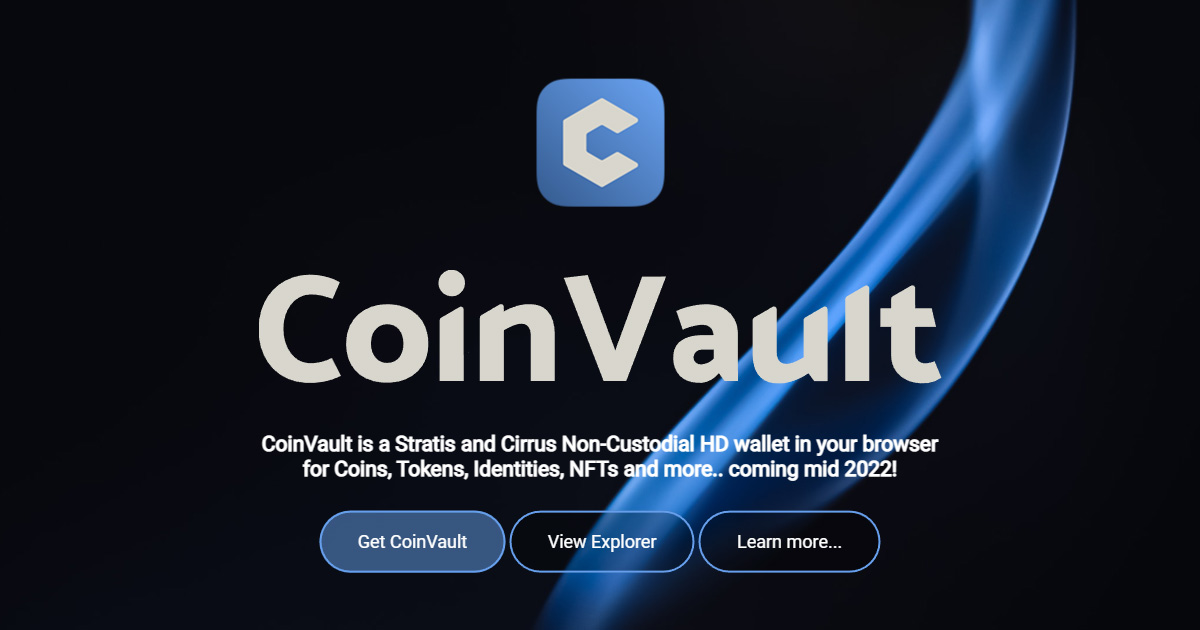
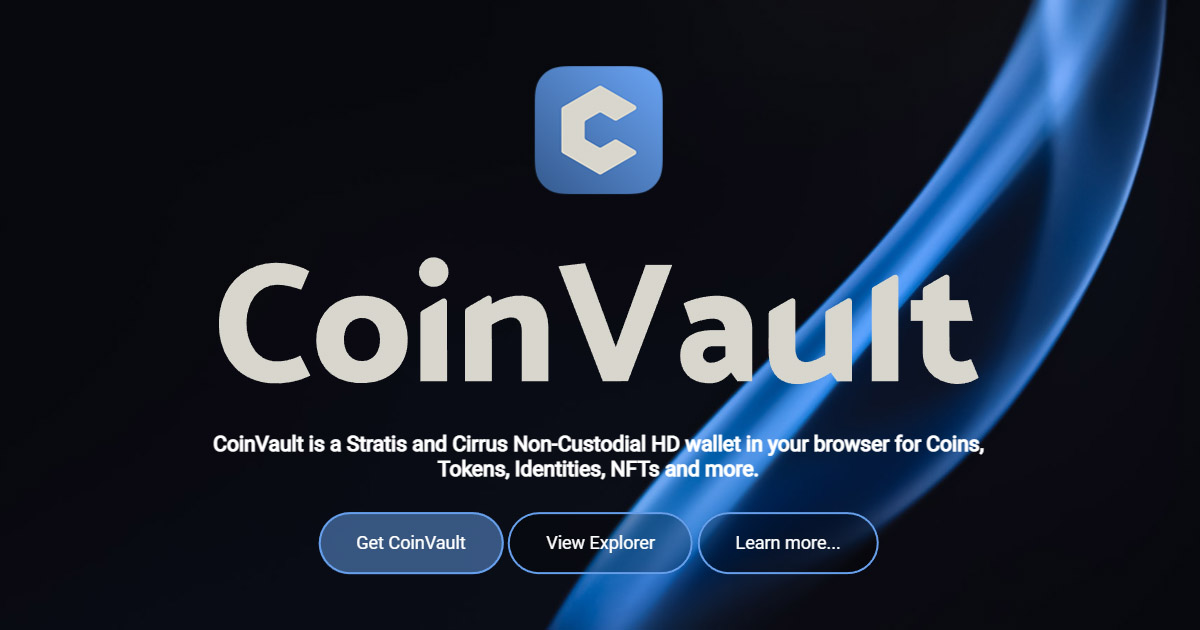
deploy: 38b2974764503ea4815e2efd65a3202297f32357

diff --git a/index.html b/index.html
@@ -46,7 +46,7 @@
             <img src="assets/profile/icon-128x128.png"><br><br>
             <img class="coinvault-logo" src="assets/profile/coinvault-light.svg">
             <h3>CoinVault is a Stratis and Cirrus Non-Custodial HD wallet in your browser for Coins, Tokens, Identities,
-                NFTs and more.. coming mid 2022!
+                NFTs and more.
             </h3>
             <br><br>
             <a class="button button-primary" href="https://chrome.google.com/webstore/detail/coinvault/iofdmgdkbbolebgepilfaacaaoaeigek" target="_blank">Get CoinVault</a>
@@ -73,10 +73,8 @@
                 how they want to manage their assets.
             </p>
             <p>
-                The wallet allow users to store, send, receive, setup coldstaking,
-                create tokens, swap tokens,
-                vote on proposal and generally interact with smart contracts on top of the Stratis mainchain and
-                sidechains.
+                The wallet allow users to store, send, receive, view tokens, view NFTs,
+                and generally interact with smart contracts (future functionality).
             </p>
             <h3>CoinVault benefits</h3>
             <p>
@@ -112,69 +110,16 @@
             <h2>All the features in one place</h2>
             <img class="drawing-right-image" src="assets/screenshot-wallet-management.png">
             <p>
-            <ul>
-                <li>HD wallet, one key all coins</li>
-                <li>Multiple Wallets, Multiple Accounts</li>
-                <li>Send and receive on Cirrus and Stratis</li>
-                <li>Setup and track coldstaking coins</li>
-                <li>All your NFTs in one place</li>
-                <li>Web3 Provider</li>
-                <li>Document and Message Signing</li>
-                <li>Web App Authentication</li>
-                <li>Decentralized identifier (DID) support</li>
-                <li>Hardware Wallet support</li>
-                <li>Swap token with <a href="https://www.opdex.com/" target="_blank">Opdex</a></li>
-            </ul>
-
-            </p>
-
-            <h2>Technical proposal</h2>
-
-            <strong>Web3 Provider</strong>
-            <br><br>
-            <p>
-                CoinVault includes an Web3 Provider built specifically for Stratis, which provides
-                an JavaScript API that will allow third party developers to interact with the CoinVault extension and
-                the indexer.
-            </p>
-            <p>The Web3 Provider can be used interactively with the CoinVault wallet, requesting signing of messages,
-                signing of transactions and more.</p>
-
-            <strong>Smart Contracts</strong>
-            <br><br>
-            <p>
-                Making smart contract on Cirrus accessible without running a fullnode:
-            <ul>
-                <li>Issue and store tokens on Cirrus.</li>
-                <li>Interact with the Opdex protocol to swap token issued on Cirrus.</li>
-                <li>Enable master nodes to vote on SDA proposals.</li>
-                <li>Create and store NFTs. (pending NFT contracts are available)</li>
-                <li>Coldstaking, stake Strax safely with external staking pools</li>
-            </ul>
-            </p>
-
-            <strong>Indexer</strong>
-            <br><br>
-            <p>
-                Blockcore already has an indexer for Stratis we will improve it and also adapt it to Cirrus and create
-                APIs to interact with smart contracts on Cirrus.
-            </p>
-
-            <strong>Explorer</strong>
-            <br><br>
-            <p>
-                Blockcore Explorer will be extended to Stratis and Cirrus, users will be able to query to blockchain for
-                information.
-            </p>
-
-            <h2>Our Team</h2>
-            <p><img class="drawing-right" src="assets/undraw_version_control_re_mg66.svg">
-                The team that is responsible for CoinVault development is listed on the <a
-                    href="https://www.softchains.net/" target="_blank">Softchains Ltd</a> website.
-            </p>
-            <p>
-                Additionally there are others who contribute to CoinVault, as the wallet is open source and accepts
-                contributions by the community.
+                <ul>
+                    <li>HD wallet, one key all coins</li>
+                    <li>Multiple Wallets, Multiple Accounts</li>
+                    <li>Send and receive on Cirrus and Stratis</li>
+                    <li>Send (sidechain swap) between Cirrus and Stratis</li>
+                    <li>All your NFTs in one place</li>
+                    <li>Web3 Provider</li>
+                    <li>Document and Message Signing</li>
+                    <li>Web App Authentication</li>
+                </ul>
             </p>
 
             <br class="break">
@@ -183,7 +128,7 @@
 
     <section class="section section-3">
         <div class="container">
-            <h2>Development and Release</h2>
+            <h2>Future Roadmap</h2>
 
             <p><img class="drawing-right" src="assets/undraw_Online_calendar_re_wk3t.svg">
                 Estimating delivery of software is hard and very inaccurate, we provide our best effort estimation and
@@ -195,95 +140,27 @@
             <p>
                 <strong>Features</strong>
             <ul>
-                <li>Wallet</li>
-                <ul>
-                    <li>Wallet Management</li>
-                    <li>Account Management</li>
-                    <li>Send and receive coins</li>
-                    <li>Coldstaking</li>
-                </ul>
-                <li>Smart contracts</li>
-                <ul>
-                    <li>Tokens</li>
-                    <li>Swaps</li>
-                    <li>SDA proposals</li>
-                    <li>NFTs</li>
-
-                </ul>
-                <li>Indexer</li>
-                <ul>
-                    <li>Performance optimization for larger chains</li>
-                    <li>Support for sidechain, tokens and smart contracts</li>
-                </ul>
-                <li>Explorer</li>
-                <ul>
-                    <li>Sidechain and token support</li>
-                    <li>Smartcontract support</li>
-                </ul>
+                <li>Setup and track coldstaking coins</li>
+                <li>Decentralized identifier (DID) support</li>
+                <li>Hardware Wallet support</li>
+                <li>Swap token with <a href="https://www.opdex.com/" target="_blank">Opdex</a></li>
+                <li>Smart contract (Cirrus) interactions</li>
             </ul>
+
+            Got a good idea? Please <a href="https://github.com/block-core/blockcore-wallet/issues">let us know</a>!
+
             </p>
 
             <br><br>
 
-            <h2>Funding</h2>
-
-            <p>
-                CoinVault received financial funding support from <a
-                    href="https://www.stratisplatform.com/decentralized-accelerator/">Stratis Decentralized
-                    Accelerator</a>.
-            </p>
-
-            <br><br><br>
-
-            <h2>Milestones</h2>
-
-            <p>We will work with a continuous delivery process (DevOps) and updates will be pushed all the time, but
-                we'll plan
-                for these tentative milestones:
-            </p>
-
-            <h3>January 2022: Alpha</h3>
-
-            <p>Limited availability for selected testers. Basic wallet functionality, Web3 Provider, Indexer and
-                Explorer.</p>
-
-            <h3>May 2022: Beta</h3>
-            <p>Public available release. Support for Cirrus and smart contracts.</p>
-
-            <h3>September 2022: Version 1</h3>
-            <p>All of the "will deliver" functionality completed. Work has started on "plan to deliver" functionality.
-            </p>
-
-            <br><br><br>
-
-            <h2>Existing Development</h2>
-
-            <p>
-                CoinVault is built by combining multiple open source software developed by Blockcore. To learn more
-                about the individual parts that together constitutes CoinVault, check the source repositories here:
-            </p>
-
-            <p>Blockcore Extension: <a
-                    href="https://github.com/block-core/blockcore-extension">https://github.com/block-core/blockcore-extension</a>
-            </p>
-            <p>Blockcore Explorer: <a
-                    href="https://github.com/block-core/blockcore-explorer">https://github.com/block-core/blockcore-explorer</a>
-            </p>
-            <p>Blockcore Indexer: <a
-                    href="https://github.com/block-core/blockcore-indexer">https://github.com/block-core/blockcore-indexer</a>
-            </p>
-            <p>Blockcore Provider: <a
-                    href="https://github.com/block-core/blockcore-provider">https://github.com/block-core/blockcore-provider</a>
-            </p>
-
-            <br><br><br>
-
             <h2>Partnerships</h2>
 
-            <p>
-                CoinVault is an end-user software product that has potential for large user-base, but we are not selling
-                CoinVault as a paid service. We are looking for partnerships for integrations within the CoinVault
-                extension.
+            Our partners enables you to purchase and exchange crypto-currency in a seamless manner. You can find options for this within the 
+            wallet by going to the "Exchang" action on the dashboard.
+
+            <p class="partners">
+                <a href="https://exolix.com/?ref=BcG9dcJcQqLeXPf5"><img src="assets/exolix.png"></a><br>
+                <img src="assets/simplex.png"><br>
             </p>
             <p>
                 If you represents an crypto-currency exchange, NFT marketplace or other related services, please contact

diff --git a/styles.css b/styles.css
@@ -139,6 +139,17 @@ a:hover {
     color: white;
 }
 
+.partners {
+    /* margin-left: auto;
+    margin-right: auto; */
+    text-align: center;
+}
+
+.partners img {
+ width: 80%;
+ max-width: 400px;
+}
+
 section,
 footer,
 .content {
